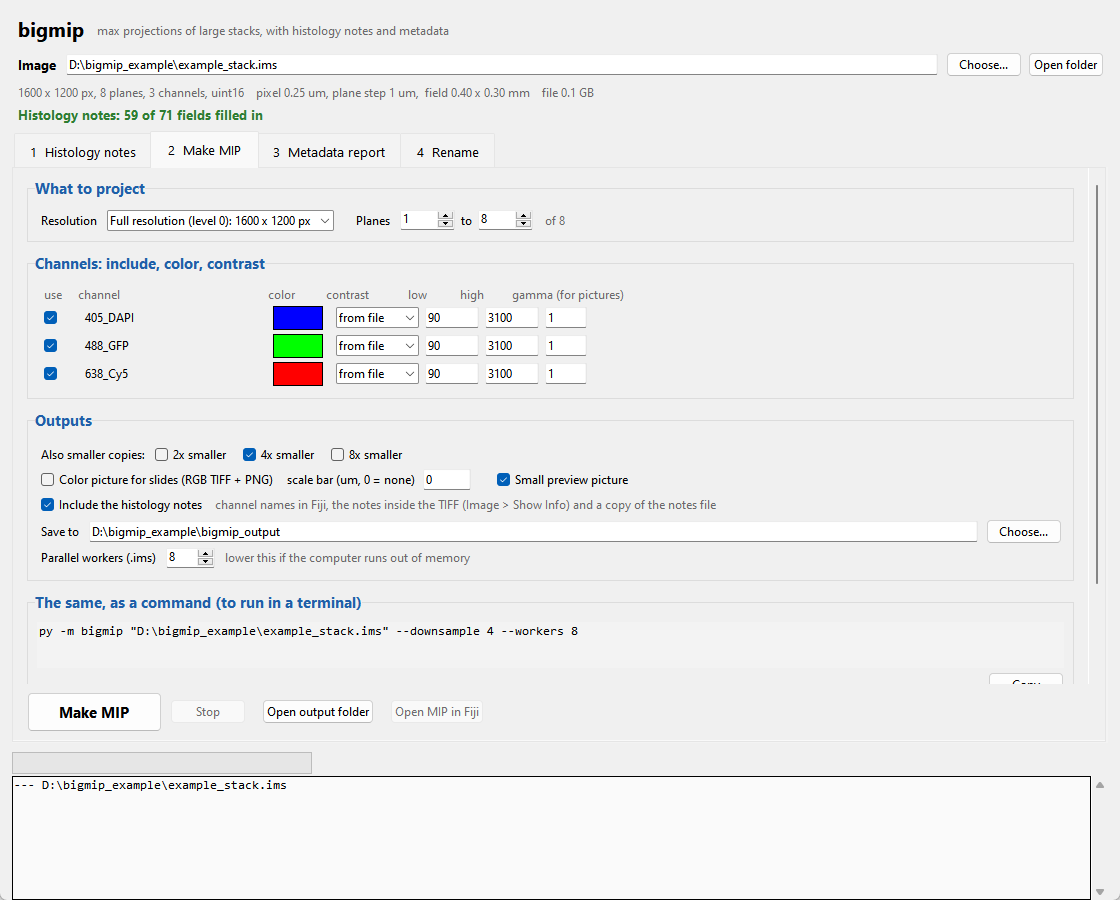
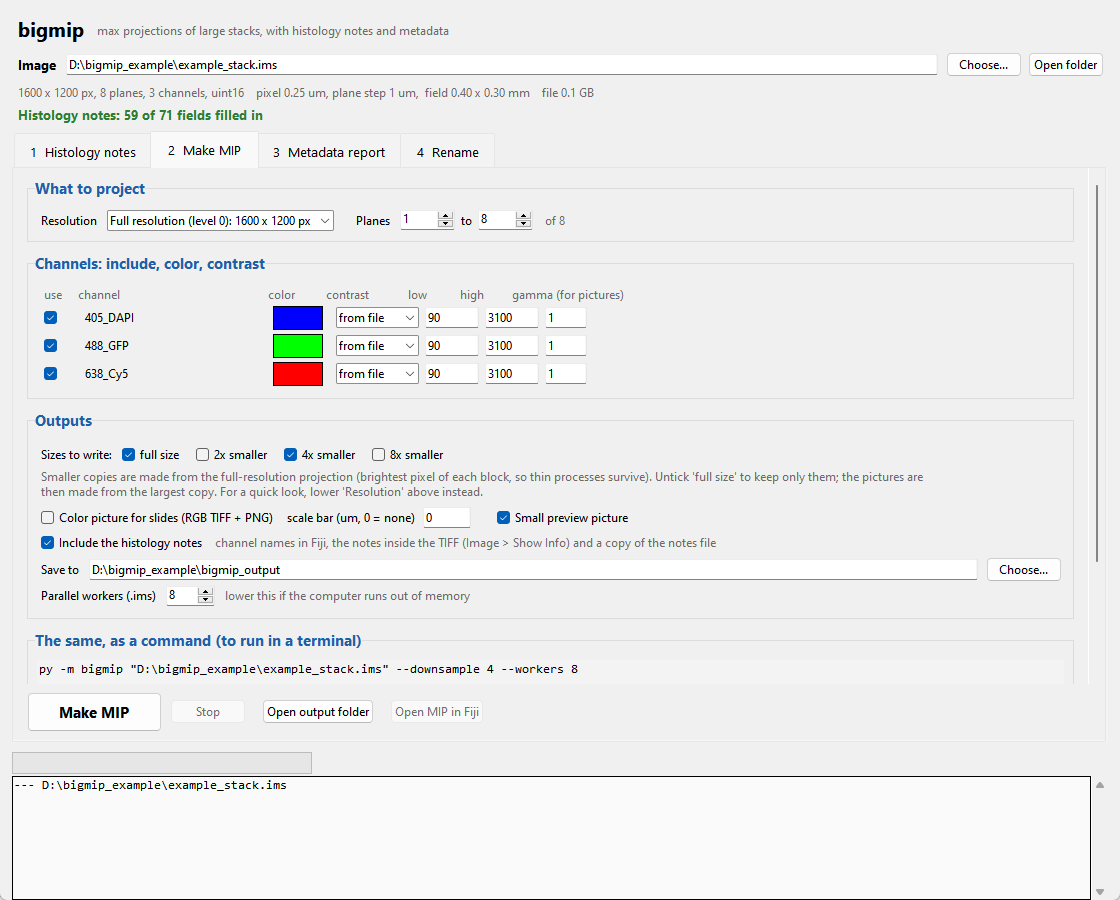
Option to skip the full-size MIP; the mouse wheel never changes a field
- --no-full / app "Sizes to write: [x] full size": write only the smaller copies (still
  block-max of the full-resolution projection); the RGB picture and preview then come from
  the largest copy (NAME_MIP_x2smaller_RGB.tif). Refused up front if no smaller copy is
  ticked. A hint explains smaller copies vs a lower 'Resolution'.
- Tk's drop-downs and number boxes changed value on the mouse wheel, so scrolling a form past
  them silently changed fields (Resolution, Planes, contrast, notes drop-downs). Their wheel
  bindings are removed in apply_style, and one global handler scrolls the page under the
  pointer (lists / text boxes / the open drop-down list still scroll themselves). Checked in
  a real window: wheel over a drop-down scrolls the page, value unchanged.

Tests: --no-full outputs + refusal, wheel bindings removed. 18 pass. README + screenshots.

Changed region(s): [[0.0312, 0.4978, 0.8125, 0.7467], [0.875, 0.5911, 0.9375, 0.6533], [0.4688, 0.6844, 0.5, 0.7467]]

diff --git a/bigmip/cli.py b/bigmip/cli.py
@@ -47,6 +47,9 @@ def build_parser():
                    help="ignore display ranges stored in the file and compute them from the projection")
     p.add_argument("--downsample", type=int, nargs="*", default=[], metavar="K",
                    help="also write copies shrunk K-fold (max of each KxK block), e.g. --downsample 2 4")
+    p.add_argument("--no-full", action="store_true",
+                   help="do not write the full-size MIP: only the smaller copies (--downsample, still made from the "
+                        "full-resolution projection) and the pictures, which then come from the largest copy")
     p.add_argument("--rgb", action="store_true", help="also write a flattened RGB TIFF + PNG (for slides / figures)")
     p.add_argument("--gamma", help="per-channel gamma for --rgb/preview, e.g. '1,1,0.7,1' (<1 brightens dim parts)")
     p.add_argument("--scalebar", type=float, default=0, metavar="UM",
@@ -111,6 +114,8 @@ def main(argv=None):
     path = os.path.abspath(a.file)
     if not os.path.exists(path):
         sys.exit(f"file not found: {path}")
+    if a.no_full and not any(k > 1 for k in a.downsample):
+        sys.exit("--no-full writes only the smaller copies: add at least one, e.g. --downsample 4")
     t_start = time.time()
     step(f"reading the file header: {path}")
     st = open_stack(path, a.level)
@@ -213,23 +218,32 @@ def main(argv=None):
     px = m["pixel_um"]
     labels = channel_labels(notes, names) if notes else names
     info = summary_text(notes) if notes else None
-    written = []
-    step(f"writing the projection ({proj.nbytes / 2**30:.2f} GB) to {outdir}")
-    written.append(write_composite(os.path.join(outdir, f"{stem}_{tag}.tif"), proj, labels, colors, ranges, px, info))
+    written, small = [], {}
+    if a.no_full:
+        step(f"full-size MIP not written (--no-full); writing the smaller copies to {outdir}")
+    else:
+        step(f"writing the projection ({proj.nbytes / 2**30:.2f} GB) to {outdir}")
+        written.append(write_composite(os.path.join(outdir, f"{stem}_{tag}.tif"), proj, labels, colors, ranges, px,
+                                       info))
     for k in a.downsample:
         if k > 1:
             step(f"writing the {k}x smaller copy")
-            pk = (px[0] * k, px[1] * k) if px[0] else px
+            small[k] = (block_max(proj, k), (px[0] * k, px[1] * k) if px[0] else px)
             written.append(write_composite(os.path.join(outdir, f"{stem}_{tag}_x{k}smaller.tif"),
-                                           block_max(proj, k), labels, colors, ranges, pk, info))
+                                           small[k][0], labels, colors, ranges, small[k][1], info))
     if a.rgb or not a.no_preview:
         step("rendering the color image" + (" (RGB TIFF + PNG + preview)" if a.rgb else " (preview)"))
-        rgb = render_rgb(proj, colors, ranges, gammas)
-        if a.scalebar and px[0]:
-            add_scalebar(rgb, a.scalebar, px[0])
+        if a.no_full:              # pictures from the largest smaller copy, never at full size
+            k = min(small)
+            pic, ppx, ptag = small[k][0], small[k][1], f"{tag}_x{k}smaller"
+        else:
+            pic, ppx, ptag = proj, px, tag
+        rgb = render_rgb(pic, colors, ranges, gammas)
+        if a.scalebar and ppx[0]:
+            add_scalebar(rgb, a.scalebar, ppx[0])
         if a.rgb:
-            written.append(write_rgb(os.path.join(outdir, f"{stem}_{tag}_RGB.tif"), rgb, px))
-            written.append(write_preview(os.path.join(outdir, f"{stem}_{tag}_RGB.png"), rgb, max_side=10**9))
+            written.append(write_rgb(os.path.join(outdir, f"{stem}_{ptag}_RGB.tif"), rgb, ppx))
+            written.append(write_preview(os.path.join(outdir, f"{stem}_{ptag}_RGB.png"), rgb, max_side=10**9))
         if not a.no_preview:
             written.append(write_preview(os.path.join(outdir, f"{stem}_{tag}_preview.png"), rgb))
     if notes_path:

diff --git a/bigmip/gui.py b/bigmip/gui.py
@@ -172,11 +172,19 @@ class App:
         out.pack(fill="x", pady=(0, 10))
         r1 = ttk.Frame(out)
         r1.pack(fill="x", pady=2)
-        ttk.Label(r1, text="Also smaller copies:").pack(side="left")
+        ttk.Label(r1, text="Sizes to write:").pack(side="left")
+        self.full_var = tk.BooleanVar(value=True)
+        ttk.Checkbutton(r1, text="full size", variable=self.full_var, command=self.update_command).pack(side="left",
+                                                                                                        padx=6)
         self.ds = {k: tk.BooleanVar(value=(k == 4)) for k in (2, 4, 8)}
         for k, v in self.ds.items():
             ttk.Checkbutton(r1, text=f"{k}x smaller", variable=v, command=self.update_command).pack(side="left",
                                                                                                     padx=6)
+        ttk.Label(out, text="Smaller copies are made from the full-resolution projection (brightest pixel of each "
+                            "block, so thin processes survive). Untick 'full size' to keep only them; the pictures are "
+                            "then made from the largest copy. For a quick look, lower 'Resolution' above instead.",
+                  style="Hint.TLabel", wraplength=900,
+                  justify="left").pack(anchor="w", pady=(0, 4))
         r2 = ttk.Frame(out)
         r2.pack(fill="x", pady=2)
         self.rgb_var = tk.BooleanVar(value=False)
@@ -492,6 +500,8 @@ class App:
         ks = [str(k) for k, v in self.ds.items() if v.get()]
         if ks:
             a += ["--downsample"] + ks
+        if not self.full_var.get():
+            a.append("--no-full")
         if self.rgb_var.get():
             a.append("--rgb")
         try:
@@ -526,6 +536,10 @@ class App:
     def make_mip(self):
         if not getattr(self, "image", None):
             messagebox.showinfo("bigmip", "Choose an image first.", parent=self.root)
+            return
+        if not self.full_var.get() and not any(v.get() for v in self.ds.values()):
+            messagebox.showinfo("bigmip", "Tick at least one size to write (full size, or a smaller copy).",
+                                parent=self.root)
             return
         if self.notes_form and self.notes_form.dirty and self.notes_var.get():
             if messagebox.askyesno("bigmip", "Save the histology notes first (so the MIP includes them)?",

diff --git a/bigmip/notes_gui.py b/bigmip/notes_gui.py
@@ -64,11 +64,35 @@ def apply_style(root):
     st.configure("Hint.TLabel", foreground=GRAY, font=("Segoe UI", 9))
     st.configure("TNotebook.Tab", padding=(12, 6), font=("Segoe UI", 10))
     st.configure("Big.TButton", font=("Segoe UI", 11, "bold"), padding=(14, 6))
+    # The mouse wheel only ever scrolls the page. Tk's own drop-downs and number boxes change their value on the
+    # wheel, which silently changed fields while scrolling past them.
+    for cls in ("TCombobox", "TSpinbox", "Spinbox"):
+        for seq in ("<MouseWheel>", "<Shift-MouseWheel>", "<Button-4>", "<Button-5>"):
+            root.bind_class(cls, seq, "")
+    for seq in ("<MouseWheel>", "<Button-4>", "<Button-5>"):
+        root.bind_all(seq, _wheel)
     return st
 
 
+def _wheel(e):
+    """Scroll the scrollable page under the pointer (lists and text boxes scroll themselves)."""
+    try:
+        w = e.widget.winfo_containing(e.x_root, e.y_root)
+    except (AttributeError, KeyError, tk.TclError):      # e.g. the open list of a drop-down: it scrolls itself
+        return
+    while w is not None:
+        if isinstance(w, (tk.Text, tk.Listbox, ttk.Treeview)):
+            return
+        if isinstance(w, ScrollFrame):
+            num = getattr(e, "num", 0)
+            n = -1 if num == 4 else 1 if num == 5 else (int(-e.delta / 120) or (-1 if e.delta > 0 else 1))
+            w.canvas.yview_scroll(n, "units")
+            return
+        w = w.master
+
+
 class ScrollFrame(ttk.Frame):
-    """A frame with a vertical scrollbar (for long tabs)."""
+    """A frame with a vertical scrollbar (for long tabs). The mouse wheel scrolls it (see _wheel)."""
 
     def __init__(self, master):
         super().__init__(master)
@@ -81,11 +105,6 @@ class ScrollFrame(ttk.Frame):
         self.canvas.configure(yscrollcommand=sb.set)
         self.canvas.pack(side="left", fill="both", expand=True)
         sb.pack(side="right", fill="y")
-        self.canvas.bind("<Enter>", lambda e: self.canvas.bind_all("<MouseWheel>", self._wheel))
-        self.canvas.bind("<Leave>", lambda e: self.canvas.unbind_all("<MouseWheel>"))
-
-    def _wheel(self, e):
-        self.canvas.yview_scroll(int(-e.delta / 120) or (-1 if e.delta > 0 else 1), "units")
 
 
 class DatePicker(tk.Toplevel):

diff --git a/tests/test_bigmip.py b/tests/test_bigmip.py
@@ -258,6 +258,8 @@ def test_app_notes_optional(tmp_path, tk_root):
     assert "--skip-notes" not in app.mip_args()
     app.notes_var.set(False)
     assert app.mip_args()[-1] == "--skip-notes"
+    app.full_var.set(False)
+    assert "--no-full" in app.mip_args()
     write_notes(str(tmp_path / "s_histology.toml"), ["405_ch", "488_ch", "561_ch"],
                 primary_incubation__duration="four")
     app.set_image(p)
@@ -412,3 +414,32 @@ def test_change_log_starts_for_existing_notes(tmp_path):
     rows = track(f)
     assert rows[0][2] == "change log started" and "earlier changes not recorded" in rows[0][7]
     assert os.path.exists(changes_path(f)) and track(f) == []
+
+
+def test_no_full_size(tmp_path):
+    vol = synthetic_volume()
+    p = str(tmp_path / "s.ims")
+    write_ims(p, vol)
+    out = tmp_path / "o"
+    with pytest.raises(SystemExit):                                     # nothing would be written
+        main([p, "-o", str(out), "--no-full", "--skip-notes"])
+    main([p, "-o", str(out), "--no-full", "--downsample", "4", "2", "--rgb", "--workers", "1", "--skip-notes"])
+    assert not (out / "s_MIP.tif").exists()
+    small, _, px2 = _read_composite(str(out / "s_MIP_x2smaller.tif"))
+    assert np.array_equal(small, vol.max(1)[:, :vol.shape[2] // 2 * 2, :vol.shape[3] // 2 * 2]
+                          .reshape(3, vol.shape[2] // 2, 2, vol.shape[3] // 2, 2).max((2, 4)))   # block max
+    rgb = tifffile.imread(str(out / "s_MIP_x2smaller_RGB.tif"))         # picture from the largest copy
+    assert rgb.shape[:2] == small.shape[1:] and not (out / "s_MIP_RGB.tif").exists()
+
+
+def test_wheel_never_changes_fields(tk_root):
+    from tkinter import ttk
+    from bigmip.notes_gui import apply_style
+    apply_style(tk_root)
+    for cls in ("TCombobox", "TSpinbox"):
+        assert tk_root.bind_class(cls, "<MouseWheel>") == ""
+    cb = ttk.Combobox(tk_root, values=["a", "b", "c"])
+    cb.pack()
+    cb.set("a")
+    cb.event_generate("<MouseWheel>", delta=-120, when="now")
+    assert cb.get() == "a"

diff --git a/README.md b/README.md
@@ -80,6 +80,9 @@ On a Mac, the first time, right-click it and choose Open. Or type `py -m bigmip.
 At the top, click **Choose...** and pick your `.ims` or `.tif` file. bigmip shows the image size, pixel size, plane
 step and channels, and how much of its histology notes is filled in. Then work through the four tabs.
 
+The mouse wheel only scrolls the page: it never changes a drop-down or a number box, so scrolling past a field
+can't change it by accident. To change one, click it.
+
 ### Tab 1: Histology notes
 ![Histology notes](docs/app_notes.png)
 
@@ -130,7 +133,11 @@ logged the next time bigmip opens them.
   - Choose the contrast: as stored in the file, automatic, or your own low/high values. Contrast only sets how Fiji
     first displays the image; pixel values are never changed.
 - **Outputs:**
-  - smaller copies (2×, 4×, 8× smaller; each keeps the brightest pixel of every block, so thin processes survive);
+  - which sizes to write: **full size** and/or smaller copies (2×, 4×, 8× smaller; each keeps the brightest pixel
+    of every block, so thin processes survive). Untick **full size** to keep only the smaller copies: they are
+    still made from the full-resolution projection, and the color picture is then made from the largest copy.
+    (For a quick look instead, lower **Resolution**: that reads a smaller version stored in the file, which is
+    much faster, but thin processes can come out dimmer);
   - a flattened color picture for slides, with an optional scale bar;
   - a small preview;
   - **Include the histology notes** (on by default, when the image has notes): channel names like
@@ -224,6 +231,7 @@ Options for `py -m bigmip FILE` (`py -m bigmip --help` lists them all):
 | `--ranges LIST` | Contrast per channel: `auto` or `LOW-HIGH`. | `--ranges "auto,100-800,auto"` |
 | `--auto-ranges` | Ignore the contrast stored in the file. | |
 | `--downsample K ...` | Also write smaller copies. | `--downsample 2 4` |
+| `--no-full` | Don't write the full-size MIP, only the smaller copies (and pictures made from the largest one). | `--no-full --downsample 4` |
 | `--rgb` | Also write the flattened color picture. | |
 | `--scalebar UM` | Scale bar of UM microns on the pictures. | `--scalebar 100` |
 | `--gamma LIST` | Per-channel gamma for the pictures (below 1 brightens dim structures). | `--gamma 1,1,0.7` |
